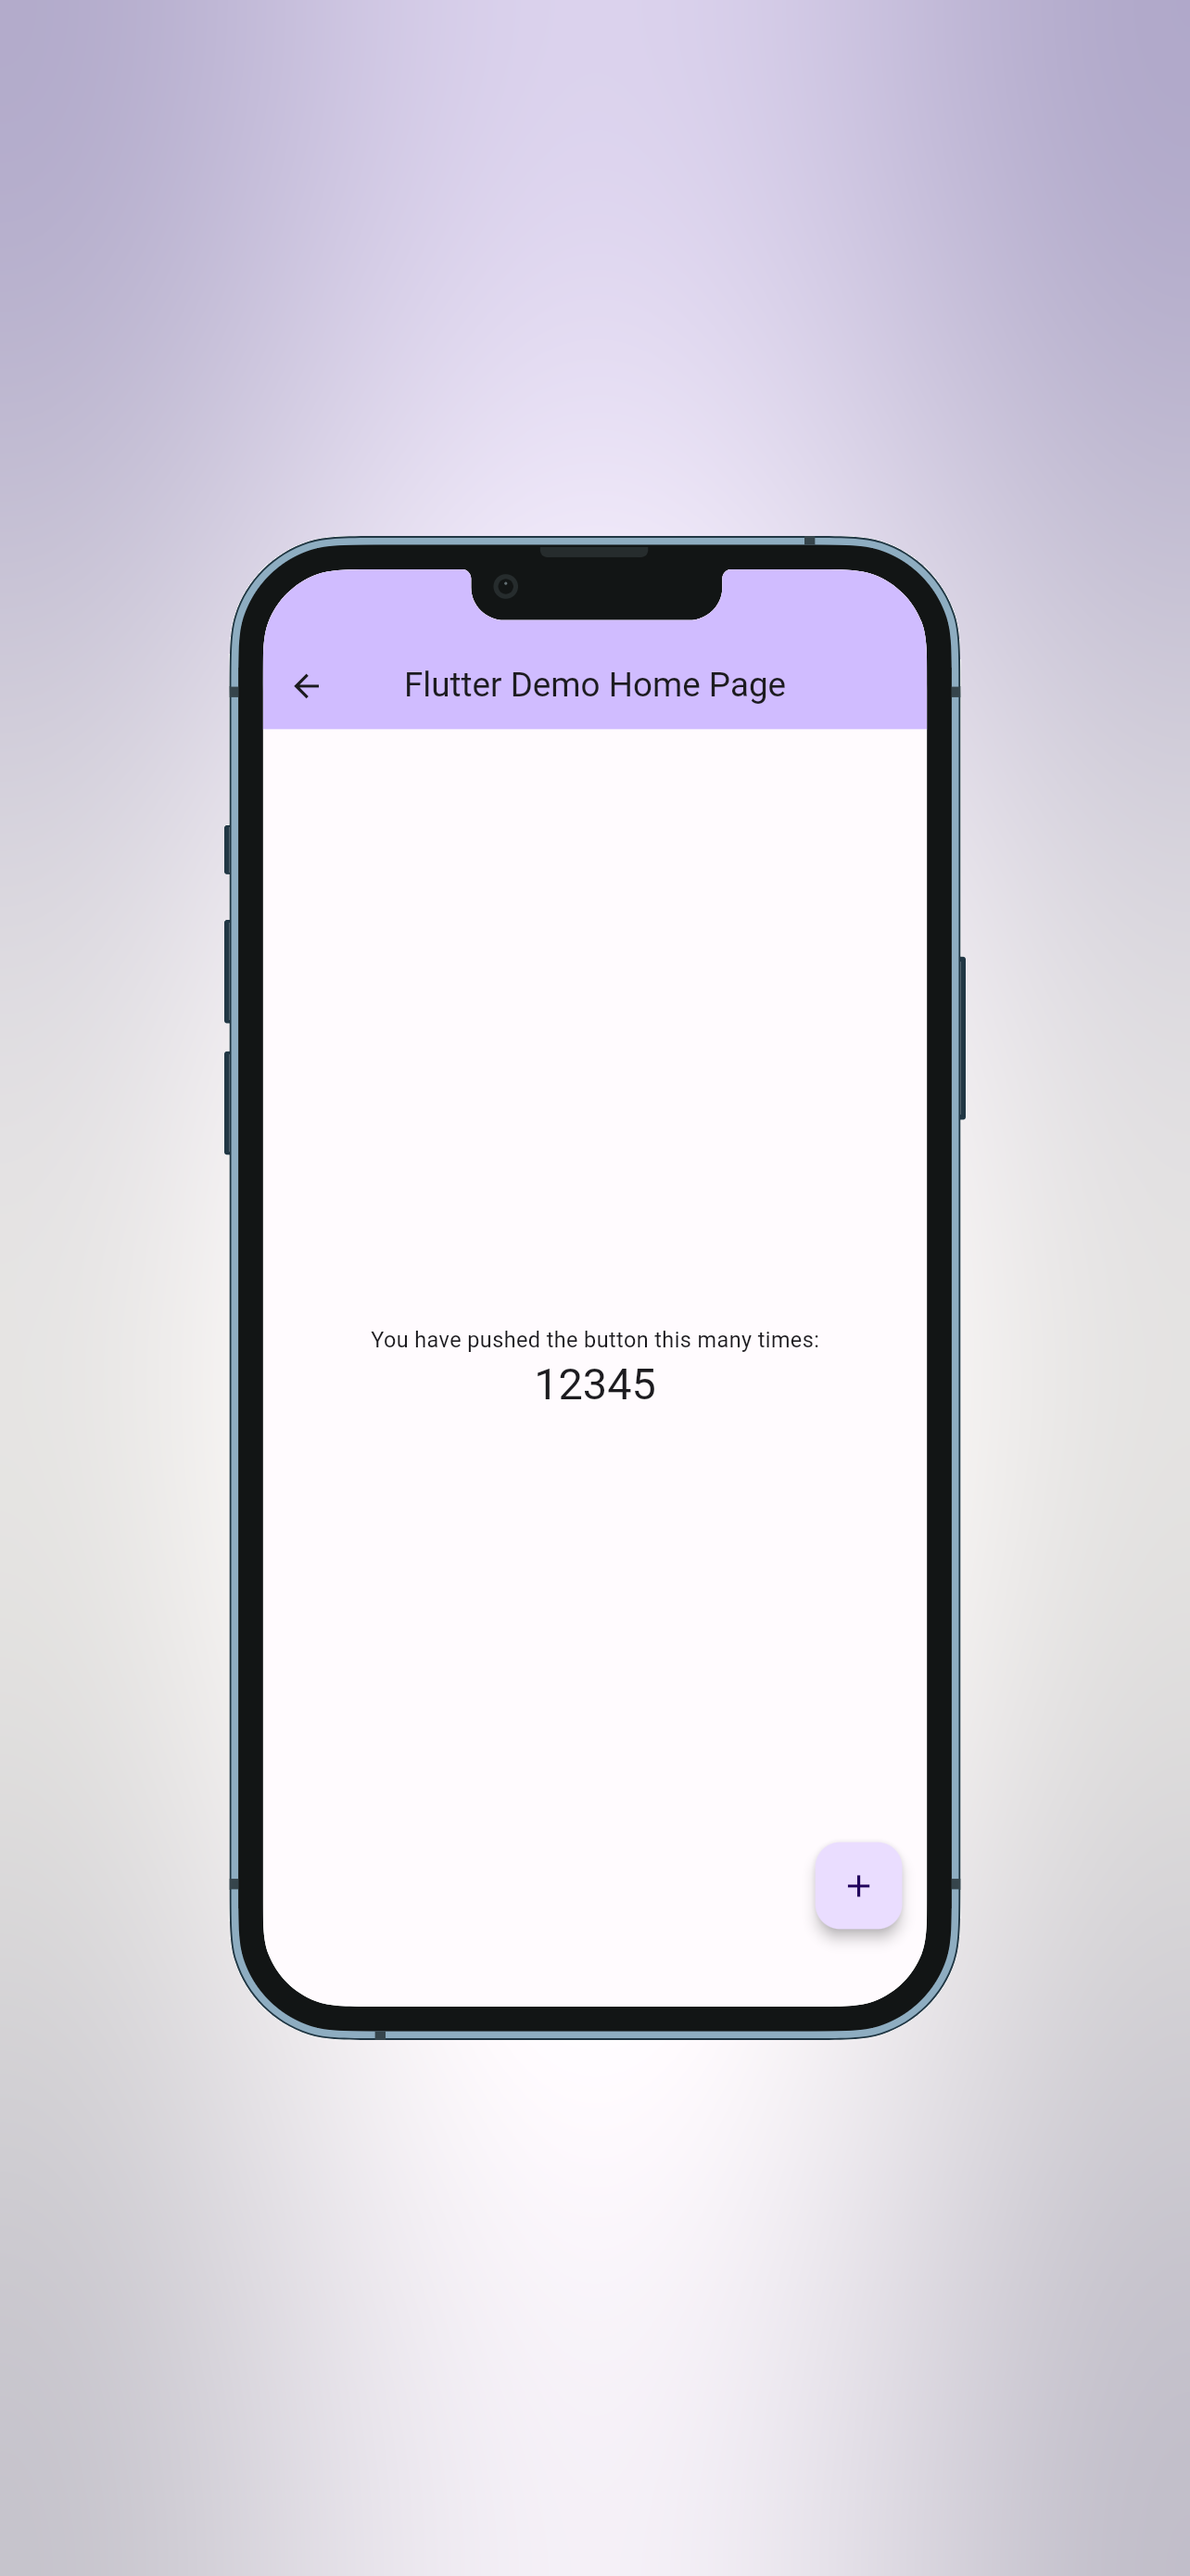
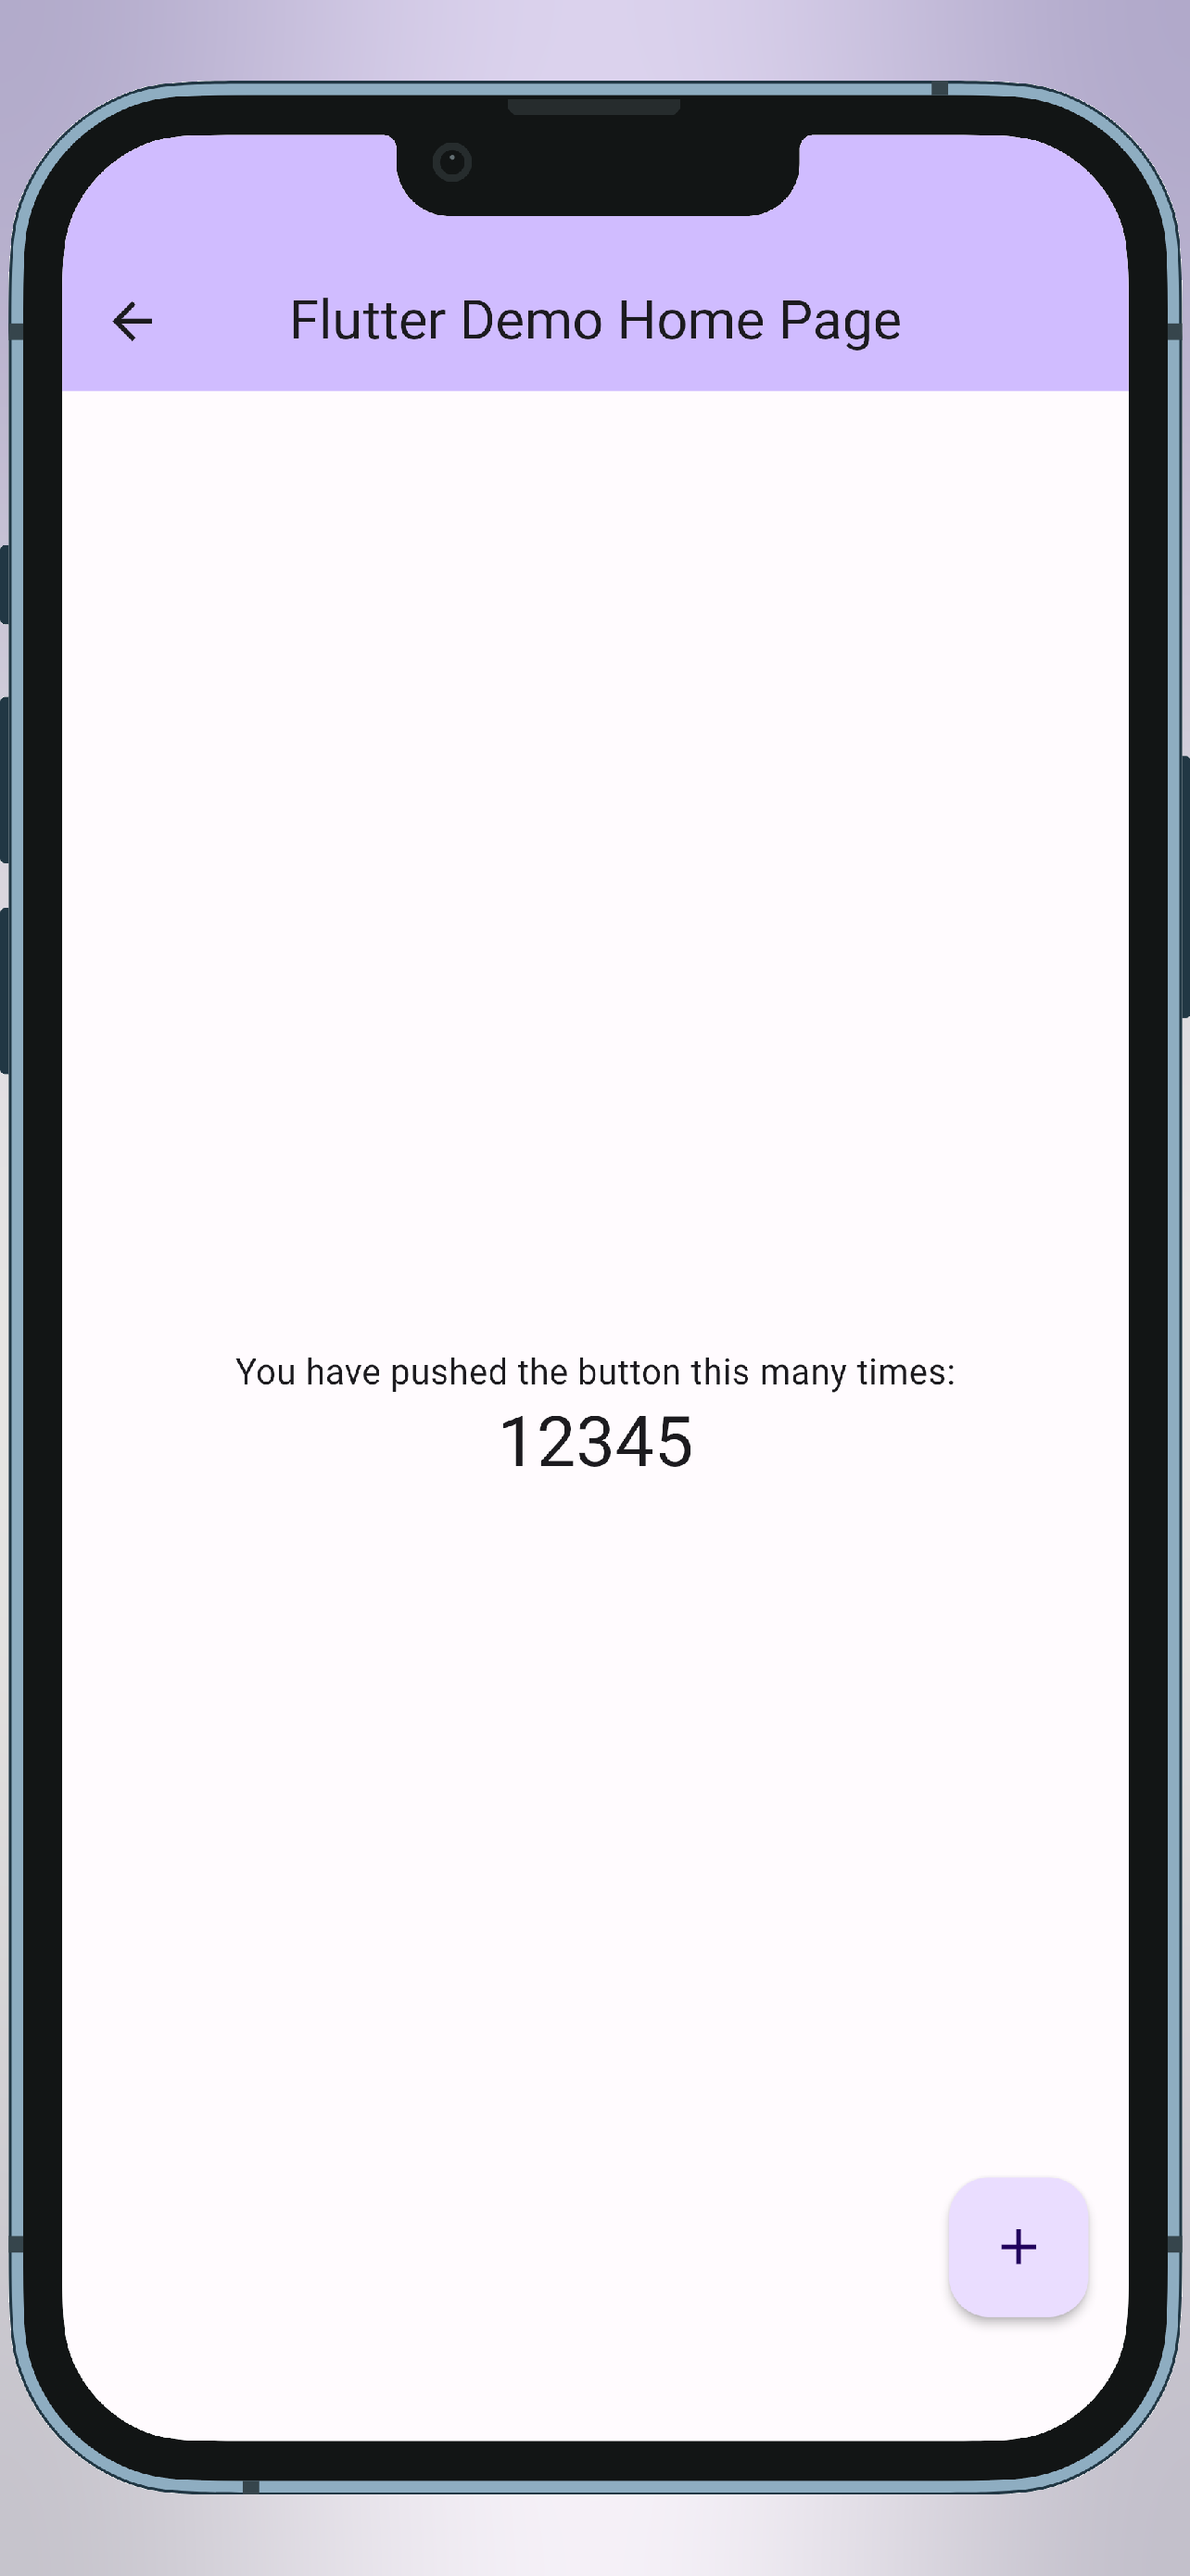
feature: readme updated, screenshots updated

diff --git a/lib/src/builders/screenshots/op/screenshot_process.dart b/lib/src/builders/screenshots/op/screenshot_process.dart
@@ -45,10 +45,12 @@ Future<void> startCapturing({
 }) async {
   onStartCapturing();
   if (dummy.screenshot.locales.isNotEmpty) {
+    await Future.delayed(const Duration(seconds: 1));
     for (final locale in dummy.screenshot.locales) {
       final outputFolder =
           await dummy.screenshot.outputFolder?.call(locale) ?? '';
       await Catalog().beforeCapture(locale);
+      await Future.delayed(const Duration(seconds: 1));
       refreshContent();
       await Future.delayed(const Duration(seconds: 1));
 

diff --git a/README.md b/README.md
@@ -1,6 +1,6 @@
-# Catalog
 
-This package allows you to create a widget catalog. Every widget page of your catalog can display one or more samples of your widget.
+
+This package allows you to create a widget catalog and all kinds of screenshots. Every widget page of your catalog can display one or more samples of your widget.
 
 *Where do I see this catalog?* After you prepare your widgets, you must run your app and go to `/catalog`.
 
@@ -9,7 +9,9 @@ This package allows you to create a widget catalog. Every widget page of your ca
 
 > This package doesn't render your widgets in IDEA, Android Studio, or Visual Studio Code.
 
-![catalog_sample](images/catalog_sample.png)
+<p align="center"><img width="30%" vspace="10" src="https://github.com/landamessenger/catalog/assets/1783618/406f6689-a388-46d3-9010-01edd18dfedf"></p>
+
+### [Home](https://github.com/landamessenger/catalog/wiki)
 
 ### [Installation](https://github.com/landamessenger/catalog/wiki/Installation)
 
@@ -37,6 +39,15 @@ This package allows you to create a widget catalog. Every widget page of your ca
 
 [- Run without go_router](https://github.com/landamessenger/catalog/wiki/Build-&-Run#run-without-go_router)
 
-### [Catalog Sample](https://landamessenger.com/catalog)
+### [Device Frames](https://github.com/landamessenger/catalog/wiki/Device-Frames)
 
+### [Screenshots](https://github.com/landamessenger/catalog/wiki/Screenshots)
+
+[- Fastlane screenshots](https://github.com/landamessenger/catalog/wiki/Screenshots#fastlane-screenshots)
+
+[- Multi-language support](https://github.com/landamessenger/catalog/wiki/Screenshots#multi-language-support)
+
+[- Samples](https://github.com/landamessenger/catalog/wiki/Screenshots#samples)
+
+### [Catalog Sample](https://landamessenger.com/catalog)
 

diff --git a/CHANGELOG.md b/CHANGELOG.md
@@ -1,3 +1,7 @@
+## 1.0.0
+
+* Added feature to generate screenshots with multi-language support and different device frames, ready for fastlane use. Multi-language support backed by [stringcare](https://pub.dev/packages/stringcare).
+
 ## 0.2.0
 
 * Added device frame with `device_frame`
